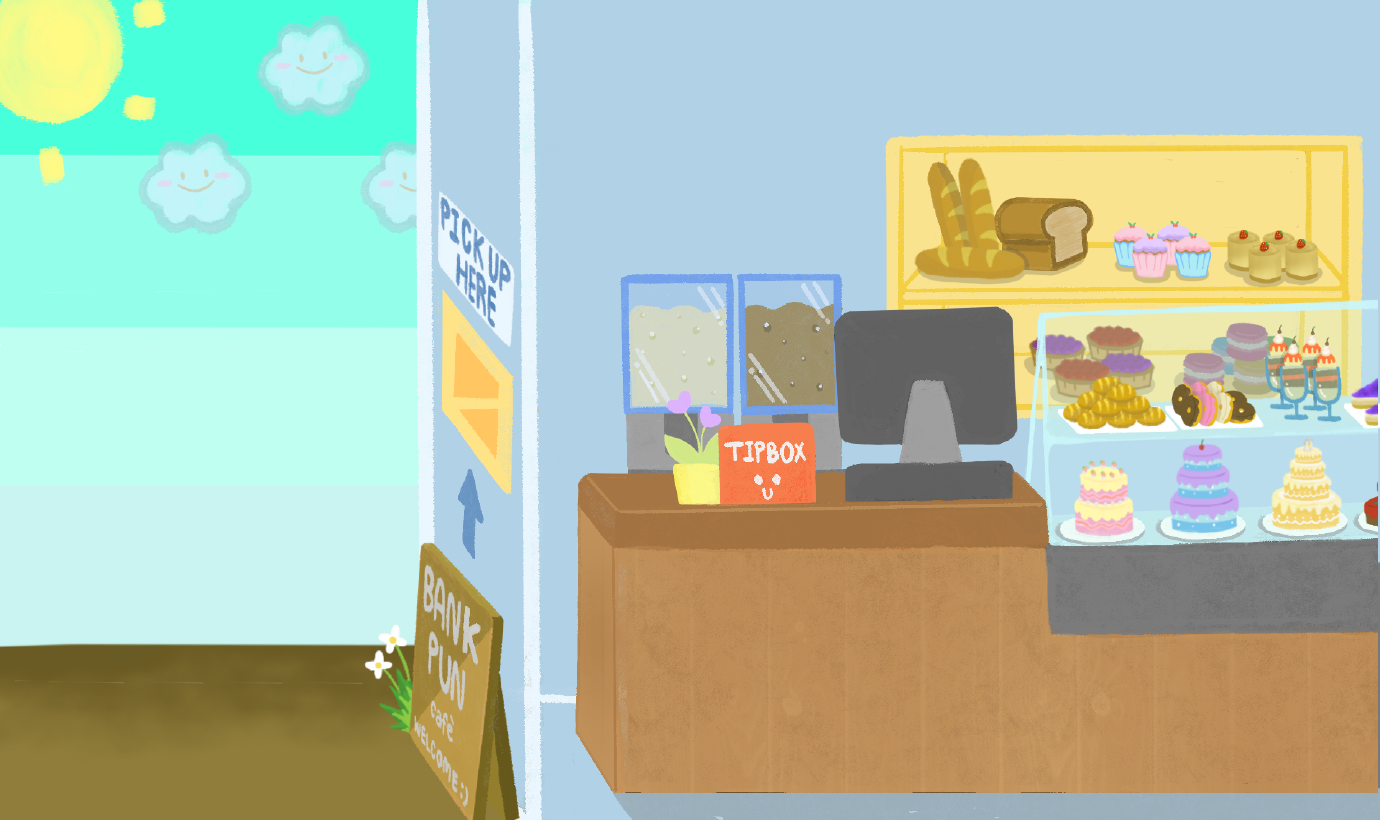
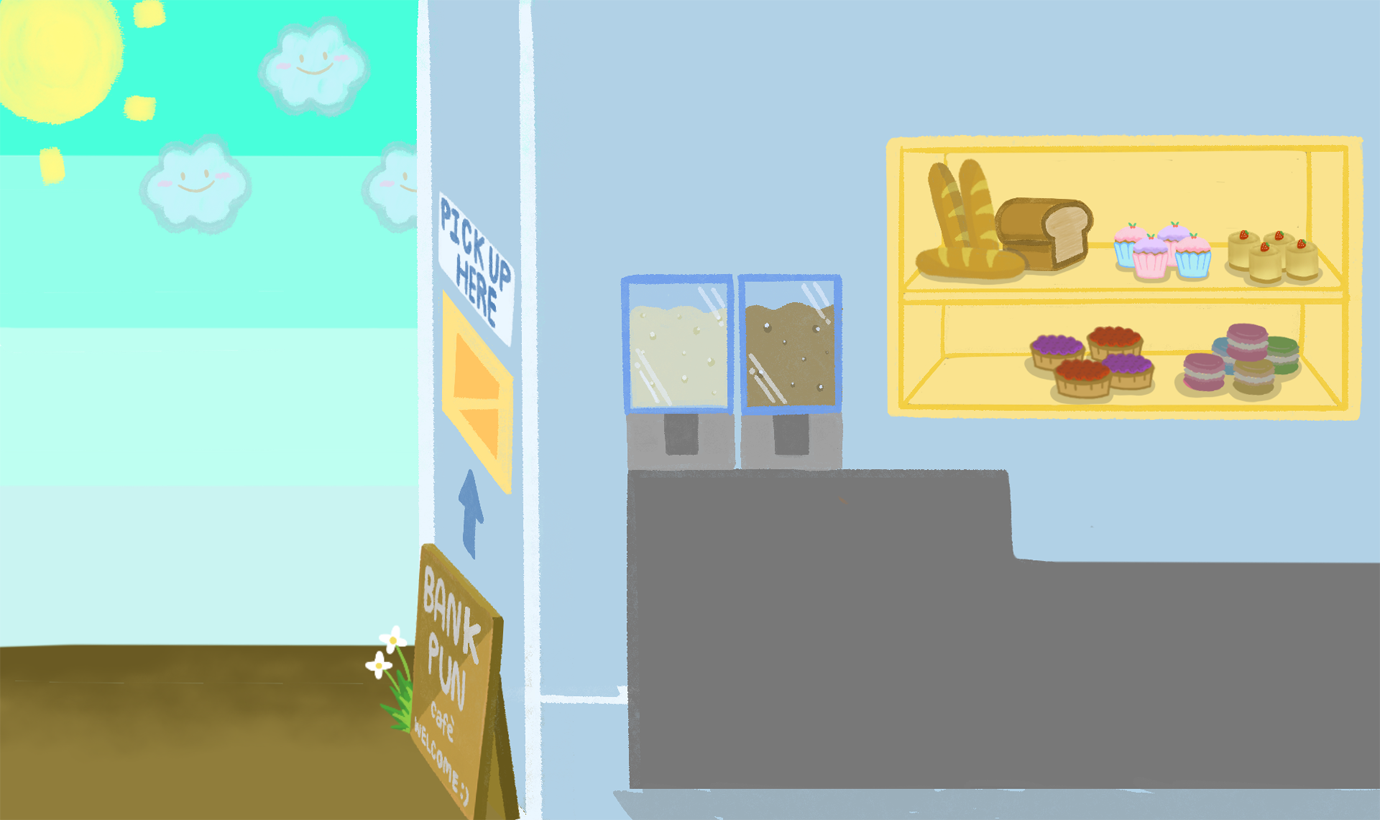
up

Changed region(s): [[0.4051, 0.3354, 1.0, 0.9756], [0.3116, 0.7012, 0.3428, 0.8841], [0.3428, 0.3049, 0.3739, 0.3659]]

diff --git a/src/InGameState.java b/src/InGameState.java
@@ -1,34 +1,96 @@
-import javax.swing.*;
+import javax.imageio.ImageIO;
 import java.awt.*;
+import java.awt.image.BufferedImage;
 
-public class InGameState extends GameState {
+public class InGameState extends GameState{
+    private BufferedImage human;
+    private BufferedImage window;
     private Background bg;
+    private Background counter;
 
-    private JPanel jp;
-    private JButton bt;
+    private String[] item = {
+            "1",
+            "2",
+            "3",
+            "4",
+            "5",
+            "6",
+            "7",
+            "8",
+            "9",
+    };
+
+    private Font font;
 
     public InGameState(GameStateManager gsm){
-        jp = new JPanel();
-        jp.setLayout(new FlowLayout());
-        bt = new JButton("Hello");
-        bt.setBackground(Color.gray);
-        jp.add(bt);
-        jp.setVisible(true);
         this.gsm = gsm;
         try{
+            window = ImageIO.read(
+                    getClass().getResourceAsStream("/window.png"));
             bg = new Background("/inGame.png");
+            human = ImageIO.read(
+                    getClass().getResourceAsStream("/human.png"));
+            counter = new Background("/counter.png");
         }
         catch (Exception e){
             System.out.println(e);
         }
     }
 
-    public void init(){}
+    public void init(){
+        while(true){
+            try{
+                Thread.sleep(new GamePanel().getWait());
+            }
+            catch (Exception e){
+                e.printStackTrace();
+            }
 
-    public void update(){}
-    public void paintComponent(Graphics2D g){
-        super.paintComponent(g);
-        Graphics2D g2 = (Graphics2D) g;
-        bg.draw(g2);
+
+        }
+    }
+
+    public void update(){
+
+    }
+    public void draw(Graphics2D g){
+        bg.draw(g);
+        g.drawImage(human, 600 % (GamePanel.WIDTH), 140 % (GamePanel.HEIGHT), 350,350, null);
+        counter.draw(g);
+        if (popUp.showSelect == 1){
+            g.drawImage(window, 0, 0, 1380,820, null);
+            font = new Font("Arial", Font.PLAIN, 48);
+            g.setFont(font);
+            g.setColor(Color.RED);
+            int itemHposition = 50;
+            int itemWposition = 80;
+            for (int i = 0; i < item.length; i++){
+                if (i%3==0){
+                    itemHposition = itemHposition+=200;
+                    itemWposition = 80;
+                }
+
+                g.drawString(item[i], itemWposition+= 200, itemHposition);
+            }
+        }
+        if (popUp.showSelect == 2){
+            g.drawImage(window, 0, 0, 1380,820, null);
+            font = new Font("Arial", Font.PLAIN, 48);
+            g.setFont(font);
+            g.setColor(Color.RED);
+            int itemHposition = 50;
+            int itemWposition = 80;
+            for (int i = 0; i < item.length; i++){
+                if (i%3==0){
+                    itemHposition = itemHposition+=200;
+                    itemWposition = 80;
+                }
+
+                g.drawString(item[i], itemWposition+= 200, itemHposition);
+            }
+        }
+        if (popUp.showSelect == 3){
+            g.drawString("hello", 100, 100);
+        }
     }
 }

diff --git a/src/GamePanel.java b/src/GamePanel.java
@@ -3,7 +3,7 @@ import java.awt.*;
 import java.awt.event.*;
 import java.awt.image.BufferedImage;
 
-public class GamePanel extends JPanel implements Runnable, KeyListener{
+public class GamePanel extends JPanel implements Runnable, KeyListener, MouseListener{
 
     public static final int WIDTH = 1380;
     public static final int HEIGHT = 820;
@@ -17,7 +17,9 @@ public class GamePanel extends JPanel implements Runnable, KeyListener{
 
     private GameStateManager gsm;
 
-    public GamePanel() {
+    private Rectangle mouseRact;
+
+    public GamePanel(){
         super();
         setPreferredSize(new Dimension(WIDTH, HEIGHT));
         setFocusable(true);
@@ -29,6 +31,7 @@ public class GamePanel extends JPanel implements Runnable, KeyListener{
         if (thread == null){
             thread = new Thread(this);
             addKeyListener(this);
+            addMouseListener(this);
             thread.start();
         }
     }
@@ -47,7 +50,6 @@ public class GamePanel extends JPanel implements Runnable, KeyListener{
 
     public void run(){
         init();
-
         long start;
         long elapsed;
         long wait;
@@ -75,6 +77,10 @@ public class GamePanel extends JPanel implements Runnable, KeyListener{
         }
     }
 
+    public long getWait(){
+        return targetTime;
+    }
+
     private void update(){
         gsm.update();
     }
@@ -84,6 +90,7 @@ public class GamePanel extends JPanel implements Runnable, KeyListener{
     private void drawToScreen(){
         Graphics g2 = getGraphics();
         g2.drawImage(image, 0, 0, WIDTH, HEIGHT, null);
+
         g2.dispose();
     }
 
@@ -95,4 +102,19 @@ public class GamePanel extends JPanel implements Runnable, KeyListener{
         gsm.keyReleased(key.getKeyCode());
     }
 
+    @Override
+    public void mouseClicked(MouseEvent e) {}
+    @Override
+    public void mousePressed(MouseEvent e) {
+        mouseRact = new Rectangle(e.getX(), e.getY(), 20, 20);
+        if (mouseRact.intersects(new Rectangle(600 % (GamePanel.WIDTH), 140 % (GamePanel.HEIGHT), 350,350))){
+            new popUp(1);
+        }
+    }
+    @Override
+    public void mouseReleased(MouseEvent e) {}
+    @Override
+    public void mouseEntered(MouseEvent e) {}
+    @Override
+    public void mouseExited(MouseEvent e) {}
 }

diff --git a/src/GameStateManager.java b/src/GameStateManager.java
@@ -1,19 +1,22 @@
+import java.awt.*;
+import java.awt.event.MouseEvent;
+import java.awt.event.MouseListener;
 import java.util.ArrayList;
 
-public class GameStateManager {
+public class GameStateManager{
 
     private ArrayList<GameState> gameStates;
     private int currentState;
 
-    public static final int MENUSTATE = 0;
-    public static final int INGAME = 1;
+    //public static final int MENUSTATE = 0;
+    public static final int INGAME = 0;
 
     public GameStateManager(){
 
         gameStates = new ArrayList<GameState>();
 
-        currentState = MENUSTATE;
-        gameStates.add(new MenuState(this));
+        currentState = INGAME;
+        //gameStates.add(new MenuState(this));
         gameStates.add(new InGameState(this));
 
     }
@@ -28,7 +31,7 @@ public class GameStateManager {
     }
 
     public void draw(java.awt.Graphics2D g){
-        gameStates.get(currentState).paintComponent(g);
+        gameStates.get(currentState).draw(g);
     }
 
     public void keyPressed(int k){
@@ -38,5 +41,4 @@ public class GameStateManager {
     public void keyReleased(int k){
         gameStates.get(currentState).keyReleased(k);
     }
-
 }

diff --git a/src/MenuState.java b/src/MenuState.java
@@ -37,23 +37,21 @@ public class MenuState extends GameState{
 
     public void init(){}
     public void update(){}
-    public void paintComponent(Graphics2D g){
-        super.paintComponent(g);
-        Graphics2D g2 = (Graphics2D) g;
-        bg.draw(g2);
-        g2.setColor(titleColor);
-        g2.setFont(titleFont);
-        g2.drawString("Bankpun", 100, 100);
+    public void draw(Graphics2D g){
+        bg.draw(g);
+        g.setColor(titleColor);
+        g.setFont(titleFont);
+        g.drawString("Bankpun", 100, 100);
 
-        g2.setFont(font);
+        g.setFont(font);
         for (int i = 0; i < options.length; i++){
             if (i == currentChoice){
-                g2.setColor(Color.BLACK);
+                g.setColor(Color.BLACK);
             }
             else {
-                g2.setColor(Color.RED);
+                g.setColor(Color.RED);
             }
-            g2.drawString(options[i], 100, 220 + i * 70);
+            g.drawString(options[i], 100, 220 + i * 70);
         }
     }
     private void select(){

diff --git a/src/Background.java b/src/Background.java
@@ -5,6 +5,13 @@ import java.awt.image.BufferedImage;
 public class Background {
     private BufferedImage image;
 
+    private double x;
+    private double y;
+    private double dx;
+    private double dy;
+
+    private double moveScale;
+
     public Background(String s){
         try{
             image = ImageIO.read(
@@ -16,6 +23,20 @@ public class Background {
         }
     }
 
+    public void setPosition(double x, double y){
+        this.x = (x * moveScale) % (GamePanel.WIDTH);
+        this.y = (y * moveScale) % (GamePanel.HEIGHT);
+    }
+
+    public void setVector(double dx, double dy){
+        this.dx = dx;
+        this.dy = dy;
+    }
+
+    public void update(){
+        x += dx;
+        y += dy;
+    }
 
     public void draw(Graphics2D g){
         g.drawImage(image, 0, 0, null);

diff --git a/src/popUp.java b/src/popUp.java
@@ -1,0 +1,31 @@
+import java.awt.*;
+
+public class popUp {
+
+    public static int showSelect;
+
+    public popUp(int select){
+        if (select == 1)
+            Menu();
+        if(select == 2){
+            calculation();
+        }
+        if (select == 3){
+            delivery();
+        }
+    }
+
+    public void Menu(){
+        this.showSelect = 1;
+    }
+    public void calculation(){
+        this.showSelect = 2;
+    }
+    public void delivery(){
+        this.showSelect = 3;
+    }
+
+    public int getShowSelect(){
+        return this.showSelect;
+    }
+}

diff --git a/src/GameState.java b/src/GameState.java
@@ -6,7 +6,7 @@ public class GameState extends JPanel {
 
     public void init(){};
     public void update(){};
-    public void paintComponent(java.awt.Graphics2D g){};
+    public void draw(java.awt.Graphics2D g){};
     public void keyPressed(int k){};
     public void keyReleased(int k){};
 

diff --git a/src/Game.java b/src/Game.java
@@ -10,5 +10,4 @@ public class Game{
         window.pack();
         window.setVisible(true);
     }
-
 }
